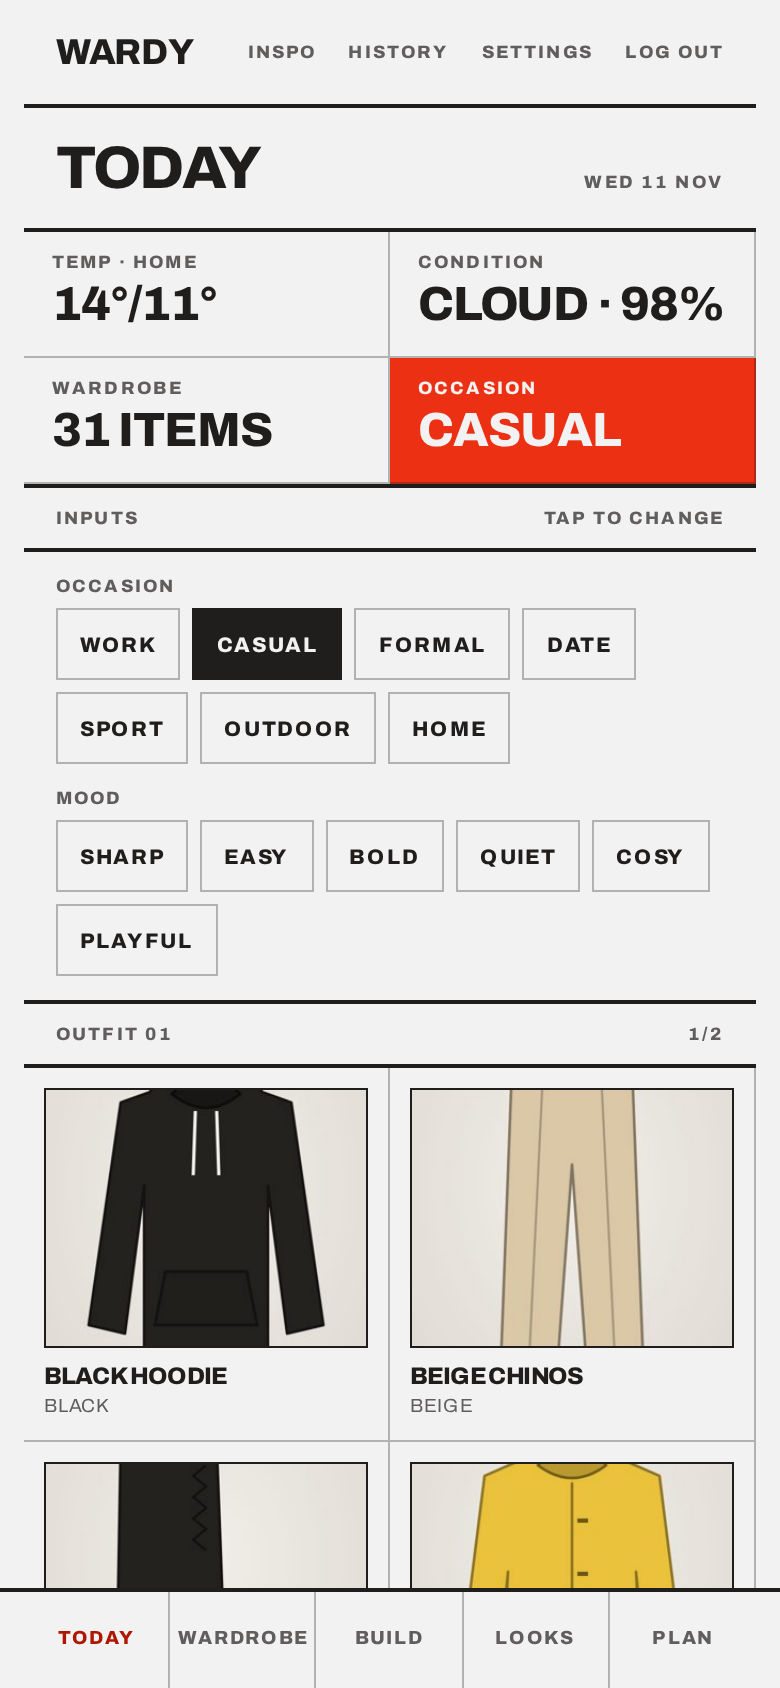
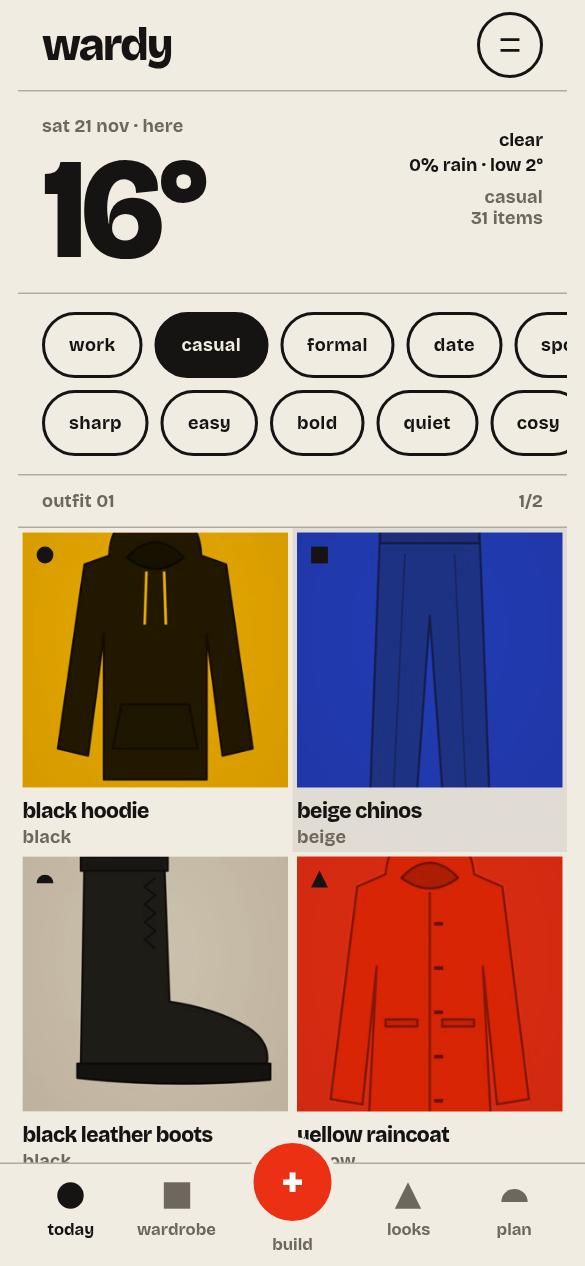
README: screenshots of the new design (light and dark) and a Design section
The three screenshots were the old design. They are retaken from a clean
instance with the bundled sample garments, with a dark row beside them, and
a Design section shows the concept poster and points at docs/frontend.md.

diff --git a/README.md b/README.md
@@ -8,13 +8,18 @@ In daily use by a two-person household since summer 2026, running as one Go
 binary on a 4 GB VPS.
 
 <p align="center">
-  <img src="docs/screenshots/today.png" width="260" alt="Today: an outfit for the current weather, occasion and mood">
-  <img src="docs/screenshots/wardrobe.png" width="260" alt="Wardrobe: a photo grid with structured search filters">
-  <img src="docs/screenshots/build.png" width="260" alt="Build: an AI-suggested outfit, every slot swappable">
+  <img src="docs/screenshots/today.png" width="240" alt="Today: an outfit for the current weather, occasion and mood">
+  <img src="docs/screenshots/wardrobe.png" width="240" alt="Wardrobe: a photo grid with structured search filters">
+  <img src="docs/screenshots/build.png" width="240" alt="Build: an AI-suggested outfit, every slot swappable">
+</p>
+<p align="center">
+  <img src="docs/screenshots/today-dark.png" width="240" alt="Today in dark mode">
+  <img src="docs/screenshots/wardrobe-dark.png" width="240" alt="Wardrobe in dark mode">
+  <img src="docs/screenshots/build-dark.png" width="240" alt="Build in dark mode">
 </p>
 
-<sub>Screenshots from a local instance with the bundled sample garments and the
-mock AI provider.</sub>
+<sub>Light and dark follow the phone. Screenshots from a local instance with
+the bundled sample garments and the mock AI provider.</sub>
 
 ## Highlights
 
@@ -57,6 +62,20 @@ mock AI provider.</sub>
   you wear and what you save.
 - **Login**: Authelia single sign-on with password fallback, no public
   signup. Installable as a PWA.
+
+## Design
+
+Bauhaus, on a phone: flat colour blocks on warm paper, one red that only ever
+marks the next action, and one heavy lowercase font. Circle, square, triangle
+and half-circle mean tops, bottoms, layers and shoes, in the tab bar and on
+every garment. Light and dark are both first-class.
+
+<p align="center">
+  <img src="docs/design/poster.png" width="520" alt="The design concept poster: shapes, type, colour, and three screens">
+</p>
+
+The rules (tokens, shapes, colour blocks, type, theming) are written down in
+[`docs/frontend.md`](docs/frontend.md#look).
 
 ## Architecture
 
